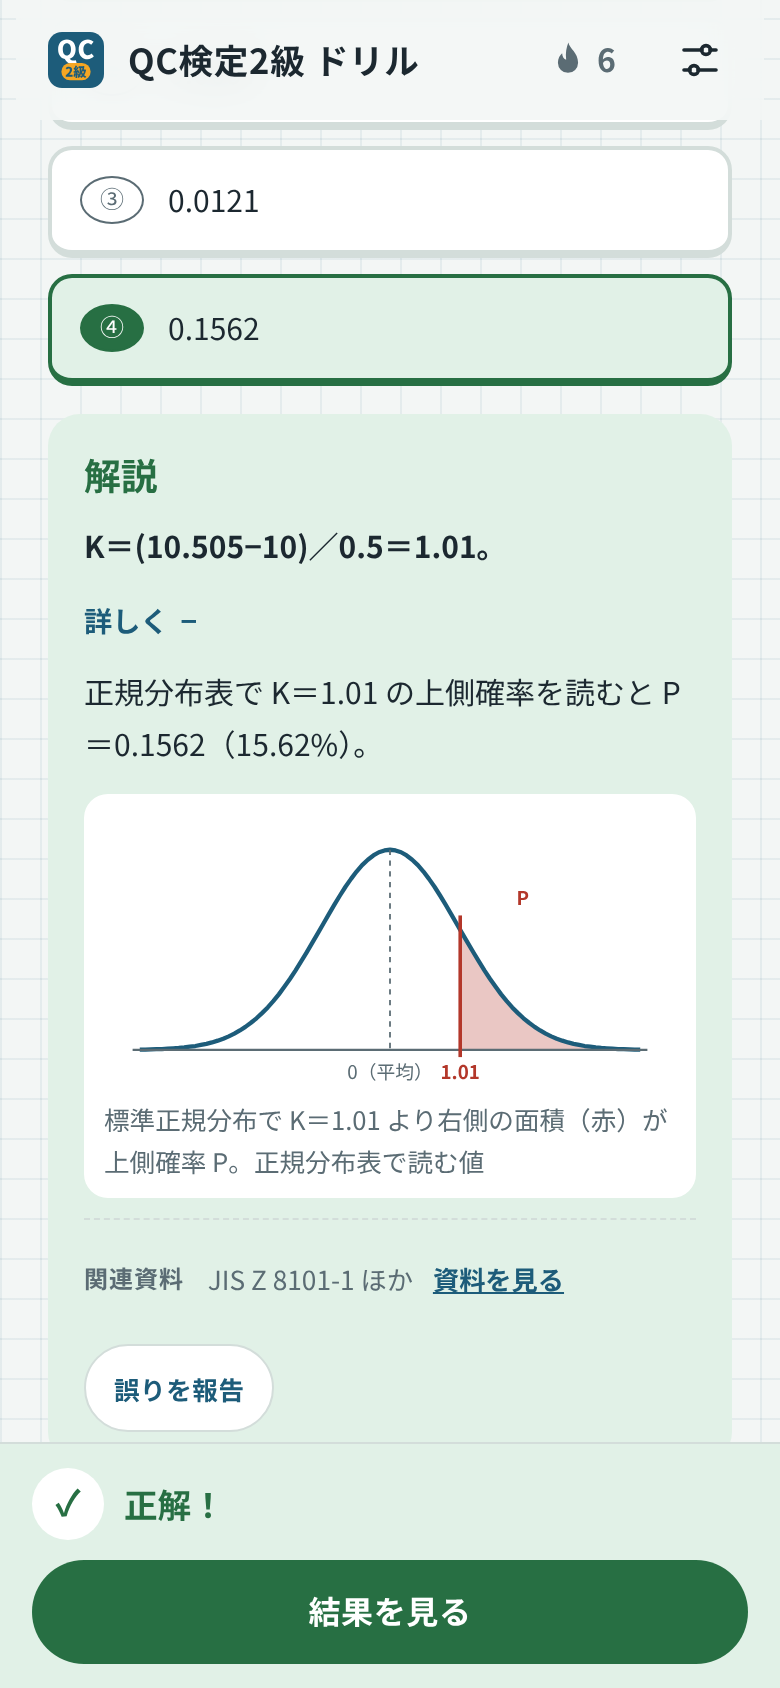
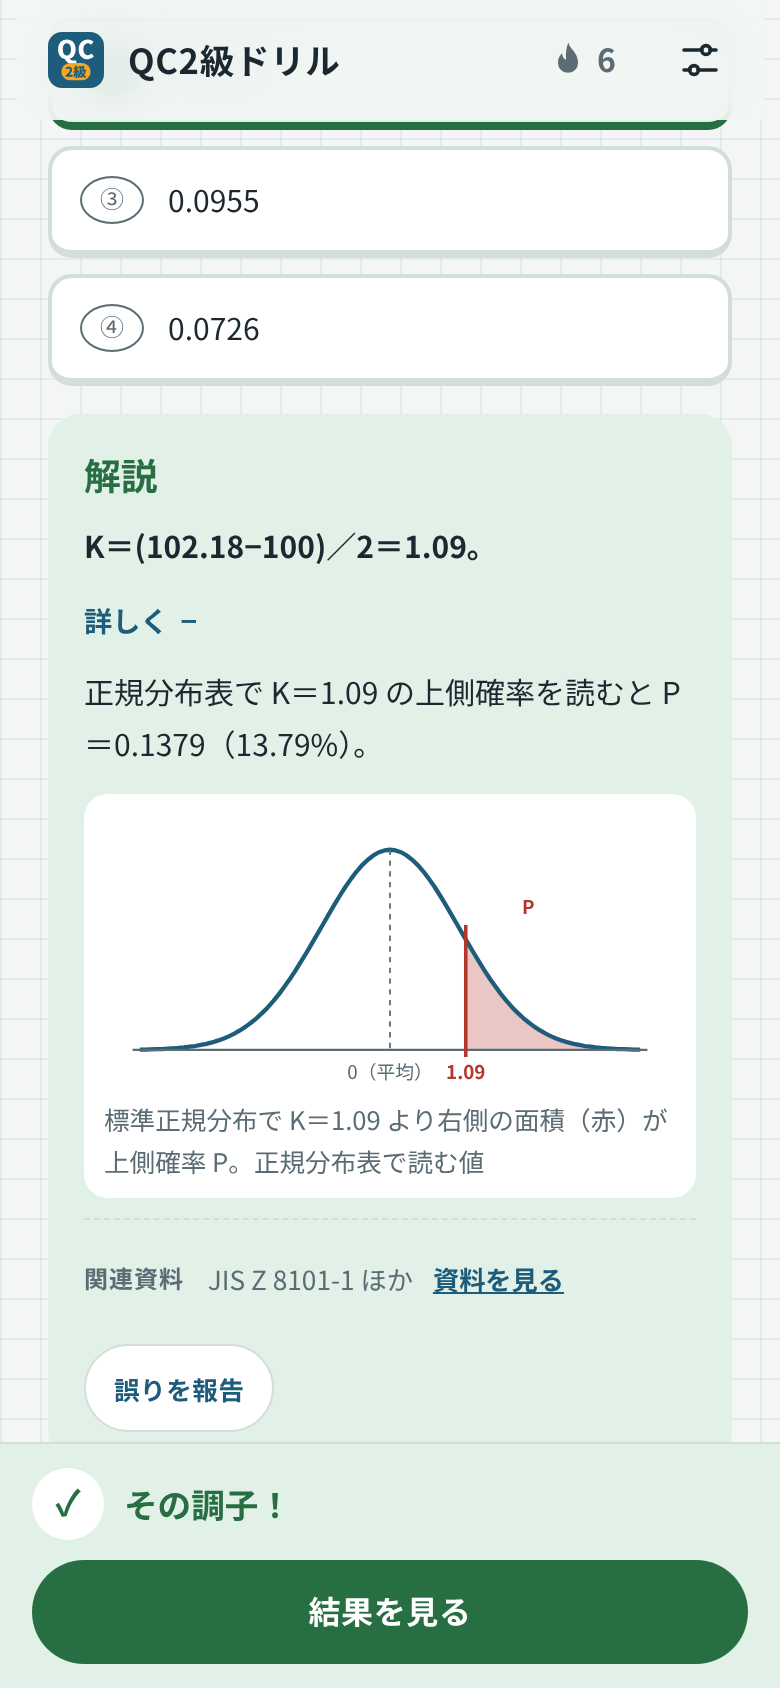
v2.0.2 アプリ名をQC2級ドリルに変更、検索・共有用の情報を追加

diff --git a/docs/index.html b/docs/index.html
@@ -1,4 +1,4 @@
-<!doctype html><html lang="ja"><head><meta charset="utf-8"><meta name="viewport" content="width=device-width,initial-scale=1,viewport-fit=cover"><style>:root{color-scheme:light;padding-top:env(safe-area-inset-top,0px);padding-bottom:env(safe-area-inset-bottom,0px)}body{margin:0}img{max-width:100%}[hidden]{display:none!important}</style></head><body><title>QC検定2級 ドリル</title>
+<!doctype html><html lang="ja"><head><meta charset="utf-8"><meta name="viewport" content="width=device-width,initial-scale=1,viewport-fit=cover"><style>:root{color-scheme:light;padding-top:env(safe-area-inset-top,0px);padding-bottom:env(safe-area-inset-bottom,0px)}body{margin:0}img{max-width:100%}[hidden]{display:none!important}</style><title>QC2級ドリル｜QC検定®2級の無料問題集・模擬試験（非公式）</title><meta name="description" content="QC検定®2級の出題範囲（レベル表164項目）を網羅した無料・広告なしの問題集。計算問題は毎回数値が変わり、本試験形式の大問、模擬試験、間隔反復の復習つき。Web版とAndroid版（非公式）。"><link rel="canonical" href="https://kotaooka.github.io/qc2-drill/"><meta name="theme-color" content="#1D5C7A"><meta property="og:type" content="website"><meta property="og:site_name" content="QC2級ドリル"><meta property="og:title" content="QC2級ドリル｜QC検定®2級の無料問題集・模擬試験"><meta property="og:description" content="QC検定®2級の出題範囲（レベル表164項目）を網羅した無料・広告なしの問題集。計算問題は毎回数値が変わり、本試験形式の大問、模擬試験、間隔反復の復習つき。Web版とAndroid版（非公式）。"><meta property="og:url" content="https://kotaooka.github.io/qc2-drill/"><meta property="og:image" content="https://raw.githubusercontent.com/kotaooka/qc2-drill/main/screenshots/og.png"><meta name="twitter:card" content="summary_large_image"></head><body><noscript><h1>QC2級ドリル</h1><p>QC検定®2級の出題範囲（レベル表164項目）を網羅した無料・広告なしの問題集。計算問題は毎回数値が変わり、本試験形式の大問、模擬試験、間隔反復の復習つき。Web版とAndroid版（非公式）。</p><p>このアプリを使うには JavaScript を有効にしてください。</p></noscript>
 <style>
 /* レイアウト：方眼紙の地にマークシート型の解答欄。上部タブで5画面を切替える1カラムアプリ */
 :root{
@@ -506,7 +506,7 @@ body.onbopen{overflow:hidden}
 <header class="appbar">
   <div class="bar">
     <svg class="brandmark" viewBox="18 18 72 72" aria-hidden="true"><rect x="18" y="18" width="72" height="72" rx="18" fill="#1D5C7A"/><path fill="#FFFFFF" d="M42.266000000000005 48.144C39.032000000000004 48.144 37.052 45.207 37.052 40.092C37.052 35.34 39.032000000000004 32.535 42.266000000000005 32.535C45.5 32.535 47.513000000000005 35.34 47.513000000000005 40.092C47.513000000000005 45.207 45.5 48.144 42.266000000000005 48.144ZM50.45 59.43C52.397000000000006 59.43 53.981 59.1 54.938 58.605000000000004L53.882000000000005 54.315C53.123000000000005 54.579 52.166 54.777 51.11 54.777C49.13 54.777 46.919 54.15 45.797 52.467C50.516000000000005 51.015 53.519000000000005 46.626 53.519000000000005 40.092C53.519000000000005 32.073 48.965 27.485999999999997 42.266000000000005 27.485999999999997C35.567 27.485999999999997 31.013 32.04 31.013 40.092C31.013 47.022 34.379 51.543 39.593 52.698C41.375 56.625 45.104 59.43 50.45 59.43Z M68.968 52.962C72.169 52.962 74.908 51.741 76.987 49.332L73.885 45.635999999999996C72.73 46.89 71.179 47.88 69.199 47.88C65.734 47.88 63.49 45.042 63.49 40.158C63.49 35.373 66.097 32.535 69.265 32.535C71.014 32.535 72.301 33.327 73.555 34.449L76.624 30.686999999999998C74.941 28.971 72.367 27.485999999999997 69.166 27.485999999999997C62.929 27.485999999999997 57.451 32.172 57.451 40.356C57.451 48.672 62.731 52.962 68.968 52.962Z"/><path fill="#F5A623" d="M46.2895,57.982 H61.710499999999996 A11.0835,11.0835 0 0 1 72.794,69.0655 V69.0655 A11.0835,11.0835 0 0 1 61.710499999999996,80.149 H46.2895 A11.0835,11.0835 0 0 1 35.205999999999996,69.0655 V69.0655 A11.0835,11.0835 0 0 1 46.2895,57.982 Z"/><path fill="#1D5C7A" d="M40.858999999999995 75.5H49.631V72.95H47.318999999999996C46.741 72.95 45.873999999999995 73.035 45.245 73.12C47.18299999999999 71.165 49.053 68.768 49.053 66.592C49.053 64.178 47.352999999999994 62.614 44.904999999999994 62.614C43.102999999999994 62.614 41.946999999999996 63.242999999999995 40.705999999999996 64.569L42.355 66.201C42.967 65.555 43.629999999999995 64.977 44.497 64.977C45.516999999999996 64.977 46.145999999999994 65.606 46.145999999999994 66.762C46.145999999999994 68.598 44.020999999999994 70.893 40.858999999999995 73.766Z M61.463 68.224C61.174 67.187 60.97 66.048 60.783 64.858V64.161H62.211C62.007 65.436 61.735 66.932 61.463 68.224ZM51.449999999999996 71.114C51.348 72.525 51.11 74.055 50.668 75.041C51.178 75.228 52.096 75.653 52.521 75.925C52.912 74.99 53.235 73.562 53.405 72.151V77.115H55.547V72.032C55.818999999999996 72.848 56.108 73.766 56.227 74.395L57.144999999999996 74.072C56.805 74.667 56.397 75.228 55.887 75.721C56.431 75.993 57.281 76.656 57.672 77.047C59.236 75.449 60.018 73.324 60.409 71.233C60.732 72.066 61.089 72.814 61.531 73.511C60.817 74.225 60.018 74.82 59.117 75.262C59.626999999999995 75.619 60.443 76.537 60.783 77.064C61.582 76.622 62.346999999999994 76.044 63.027 75.347C63.792 76.078 64.71 76.673 65.798 77.149C66.121 76.52 66.801 75.585 67.294 75.143C66.189 74.752 65.271 74.208 64.489 73.528C65.679 71.709 66.54599999999999 69.397 67.02199999999999 66.592L65.543 66.065L65.152 66.133H64.115C64.37 64.722 64.608 63.294 64.77799999999999 62.019L63.129 61.815L62.772 61.9H57.4V64.161H58.658V66.745C58.658 68.394 58.539 70.689 57.757 72.763C57.553 72.151 57.315 71.488 57.077 70.92699999999999L55.547 71.42V70.213L56.346 70.162C56.414 70.434 56.482 70.706 56.516 70.944L58.233 70.179C58.062999999999995 69.176 57.434 67.663 56.788 66.49L55.19 67.15299999999999C55.36 67.493 55.53 67.85 55.683 68.224L54.289 68.275C55.342999999999996 66.949 56.464999999999996 65.351 57.382999999999996 63.94L55.394 63.039C55.019999999999996 63.838 54.527 64.739 53.983 65.64L53.643 65.215C54.238 64.263 54.918 62.954 55.547 61.763999999999996L53.422 60.982C53.166999999999994 61.849 52.742 62.92 52.3 63.838L51.994 63.566L50.838 65.266C51.501 65.912 52.266 66.779 52.742 67.527L52.129999999999995 68.343L50.838 68.394L51.041999999999994 70.519L53.405 70.366V71.454ZM63.69 68.326H64.353C64.013 69.601 63.537 70.723 62.942 71.692C62.381 70.80799999999999 61.939 69.805 61.599 68.68299999999999L63.571 68.904Z"/></svg>
-    <h1 class="brand">QC検定2級 ドリル</h1>
+    <h1 class="brand">QC2級ドリル</h1>
     <button class="streakbtn" id="streakChip" aria-label="連続記録"></button>
     <button class="iconbtn" id="setBtn" aria-haspopup="dialog" aria-label="設定"></button>
   </div>
@@ -1377,9 +1377,10 @@ const EXAMS = [
   {id:'43', label:'第43回', date:'2027-03-21', apply:['2026-12-11','2027-01-21']},
 ];
 const APP = {
-  version: '2.0.1',
+  version: '2.0.2',
   date: '2026-10-05',
   history: [
+    ['2.0.2', '2026-10-05', 'アプリ名を「QC2級ドリル」に変更'],
     ['2.0.1', '2026-10-05', '続きから再開できるのは模擬試験だけに。演習を途中でやめるときは、進み具合がリセットされることを確認してからやめるように'],
     ['2.0.0', '2026-10-05', '途中保存と再開、電卓、問題に合わせた数値表、ホームの整理、解説の要点と詳しく、問題の切り替えの動き、終了画面の刷新、見やすさの改善（色・押しやすさ・読み上げ）'],
     ['1.9.0', '2026-10-05', '間隔反復の復習（今日の復習）、初回起動の案内、解説の図（正規分布・管理図・OC曲線など9種）、文字サイズの設定を追加'],
@@ -2579,7 +2580,7 @@ function render(){
   const key=view==='drill'&&quiz?'q'+quiz.i+'/'+quiz.list.length:view==='mock'&&mock&&!mock.done?'m'+mock.i:'';
   if(key&&key!==lastCardKey){const c=m.querySelector('.qcard');if(c&&lastCardKey)c.classList.add('enter');}
   lastCardKey=key;
-  if(!focus)m.insertAdjacentHTML('beforeend',`<footer class="appfoot">QC検定2級 ドリル <span class="ver">v${APP.version}</span>（${APP.date} 更新）・非公式の学習教材です</footer>`);
+  if(!focus)m.insertAdjacentHTML('beforeend',`<footer class="appfoot">QC2級ドリル <span class="ver">v${APP.version}</span>（${APP.date} 更新）・非公式の学習教材です</footer>`);
 }
 
 function subtabs(g){
@@ -3214,7 +3215,7 @@ function onbHTML(){
   const st=onbSteps(),k=st[onb.step],ex=examSel(),today=dayKey(new Date()),rc=remindCfg(),pad=n=>String(n).padStart(2,'0');
   const card=(attr,on,title,sub)=>`<button class="ocard" ${attr} aria-pressed="${on}"><b>${title}</b>${sub?`<span>${sub}</span>`:''}</button>`;
   let body='';
-  if(k==='hello')body=`<div class="ohero">${$('.brandmark').outerHTML}</div><h2 class="otitle">QC検定2級 ドリルへようこそ</h2>
+  if(k==='hello')body=`<div class="ohero">${$('.brandmark').outerHTML}</div><h2 class="otitle">QC2級ドリルへようこそ</h2>
     <ul class="olist"><li><b>学習ロード</b><span>4級の基本から2級の総仕上げまで、8つの章を順に進めます</span></li>
     <li><b>毎日の目標と連続記録</b><span>決めた問題数を解いた日が、連続記録の1日になります</span></li>
     <li><b>間隔をあけた復習</b><span>間違えた問題や忘れかけた問題を、ちょうどよい間隔で出し直します</span></li></ul>

diff --git a/src/template.html b/src/template.html
@@ -1,4 +1,4 @@
-<title>QC検定2級 ドリル</title>
+<title>QC2級ドリル｜QC検定®2級の無料問題集・模擬試験（非公式）</title>
 <style>
 /* レイアウト：方眼紙の地にマークシート型の解答欄。上部タブで5画面を切替える1カラムアプリ */
 :root{
@@ -506,7 +506,7 @@ body.onbopen{overflow:hidden}
 <header class="appbar">
   <div class="bar">
     <svg class="brandmark" viewBox="18 18 72 72" aria-hidden="true"><rect x="18" y="18" width="72" height="72" rx="18" fill="#1D5C7A"/><path fill="#FFFFFF" d="M42.266000000000005 48.144C39.032000000000004 48.144 37.052 45.207 37.052 40.092C37.052 35.34 39.032000000000004 32.535 42.266000000000005 32.535C45.5 32.535 47.513000000000005 35.34 47.513000000000005 40.092C47.513000000000005 45.207 45.5 48.144 42.266000000000005 48.144ZM50.45 59.43C52.397000000000006 59.43 53.981 59.1 54.938 58.605000000000004L53.882000000000005 54.315C53.123000000000005 54.579 52.166 54.777 51.11 54.777C49.13 54.777 46.919 54.15 45.797 52.467C50.516000000000005 51.015 53.519000000000005 46.626 53.519000000000005 40.092C53.519000000000005 32.073 48.965 27.485999999999997 42.266000000000005 27.485999999999997C35.567 27.485999999999997 31.013 32.04 31.013 40.092C31.013 47.022 34.379 51.543 39.593 52.698C41.375 56.625 45.104 59.43 50.45 59.43Z M68.968 52.962C72.169 52.962 74.908 51.741 76.987 49.332L73.885 45.635999999999996C72.73 46.89 71.179 47.88 69.199 47.88C65.734 47.88 63.49 45.042 63.49 40.158C63.49 35.373 66.097 32.535 69.265 32.535C71.014 32.535 72.301 33.327 73.555 34.449L76.624 30.686999999999998C74.941 28.971 72.367 27.485999999999997 69.166 27.485999999999997C62.929 27.485999999999997 57.451 32.172 57.451 40.356C57.451 48.672 62.731 52.962 68.968 52.962Z"/><path fill="#F5A623" d="M46.2895,57.982 H61.710499999999996 A11.0835,11.0835 0 0 1 72.794,69.0655 V69.0655 A11.0835,11.0835 0 0 1 61.710499999999996,80.149 H46.2895 A11.0835,11.0835 0 0 1 35.205999999999996,69.0655 V69.0655 A11.0835,11.0835 0 0 1 46.2895,57.982 Z"/><path fill="#1D5C7A" d="M40.858999999999995 75.5H49.631V72.95H47.318999999999996C46.741 72.95 45.873999999999995 73.035 45.245 73.12C47.18299999999999 71.165 49.053 68.768 49.053 66.592C49.053 64.178 47.352999999999994 62.614 44.904999999999994 62.614C43.102999999999994 62.614 41.946999999999996 63.242999999999995 40.705999999999996 64.569L42.355 66.201C42.967 65.555 43.629999999999995 64.977 44.497 64.977C45.516999999999996 64.977 46.145999999999994 65.606 46.145999999999994 66.762C46.145999999999994 68.598 44.020999999999994 70.893 40.858999999999995 73.766Z M61.463 68.224C61.174 67.187 60.97 66.048 60.783 64.858V64.161H62.211C62.007 65.436 61.735 66.932 61.463 68.224ZM51.449999999999996 71.114C51.348 72.525 51.11 74.055 50.668 75.041C51.178 75.228 52.096 75.653 52.521 75.925C52.912 74.99 53.235 73.562 53.405 72.151V77.115H55.547V72.032C55.818999999999996 72.848 56.108 73.766 56.227 74.395L57.144999999999996 74.072C56.805 74.667 56.397 75.228 55.887 75.721C56.431 75.993 57.281 76.656 57.672 77.047C59.236 75.449 60.018 73.324 60.409 71.233C60.732 72.066 61.089 72.814 61.531 73.511C60.817 74.225 60.018 74.82 59.117 75.262C59.626999999999995 75.619 60.443 76.537 60.783 77.064C61.582 76.622 62.346999999999994 76.044 63.027 75.347C63.792 76.078 64.71 76.673 65.798 77.149C66.121 76.52 66.801 75.585 67.294 75.143C66.189 74.752 65.271 74.208 64.489 73.528C65.679 71.709 66.54599999999999 69.397 67.02199999999999 66.592L65.543 66.065L65.152 66.133H64.115C64.37 64.722 64.608 63.294 64.77799999999999 62.019L63.129 61.815L62.772 61.9H57.4V64.161H58.658V66.745C58.658 68.394 58.539 70.689 57.757 72.763C57.553 72.151 57.315 71.488 57.077 70.92699999999999L55.547 71.42V70.213L56.346 70.162C56.414 70.434 56.482 70.706 56.516 70.944L58.233 70.179C58.062999999999995 69.176 57.434 67.663 56.788 66.49L55.19 67.15299999999999C55.36 67.493 55.53 67.85 55.683 68.224L54.289 68.275C55.342999999999996 66.949 56.464999999999996 65.351 57.382999999999996 63.94L55.394 63.039C55.019999999999996 63.838 54.527 64.739 53.983 65.64L53.643 65.215C54.238 64.263 54.918 62.954 55.547 61.763999999999996L53.422 60.982C53.166999999999994 61.849 52.742 62.92 52.3 63.838L51.994 63.566L50.838 65.266C51.501 65.912 52.266 66.779 52.742 67.527L52.129999999999995 68.343L50.838 68.394L51.041999999999994 70.519L53.405 70.366V71.454ZM63.69 68.326H64.353C64.013 69.601 63.537 70.723 62.942 71.692C62.381 70.80799999999999 61.939 69.805 61.599 68.68299999999999L63.571 68.904Z"/></svg>
-    <h1 class="brand">QC検定2級 ドリル</h1>
+    <h1 class="brand">QC2級ドリル</h1>
     <button class="streakbtn" id="streakChip" aria-label="連続記録"></button>
     <button class="iconbtn" id="setBtn" aria-haspopup="dialog" aria-label="設定"></button>
   </div>
@@ -872,7 +872,7 @@ function render(){
   const key=view==='drill'&&quiz?'q'+quiz.i+'/'+quiz.list.length:view==='mock'&&mock&&!mock.done?'m'+mock.i:'';
   if(key&&key!==lastCardKey){const c=m.querySelector('.qcard');if(c&&lastCardKey)c.classList.add('enter');}
   lastCardKey=key;
-  if(!focus)m.insertAdjacentHTML('beforeend',`<footer class="appfoot">QC検定2級 ドリル <span class="ver">v${APP.version}</span>（${APP.date} 更新）・非公式の学習教材です</footer>`);
+  if(!focus)m.insertAdjacentHTML('beforeend',`<footer class="appfoot">QC2級ドリル <span class="ver">v${APP.version}</span>（${APP.date} 更新）・非公式の学習教材です</footer>`);
 }
 
 function subtabs(g){
@@ -1507,7 +1507,7 @@ function onbHTML(){
   const st=onbSteps(),k=st[onb.step],ex=examSel(),today=dayKey(new Date()),rc=remindCfg(),pad=n=>String(n).padStart(2,'0');
   const card=(attr,on,title,sub)=>`<button class="ocard" ${attr} aria-pressed="${on}"><b>${title}</b>${sub?`<span>${sub}</span>`:''}</button>`;
   let body='';
-  if(k==='hello')body=`<div class="ohero">${$('.brandmark').outerHTML}</div><h2 class="otitle">QC検定2級 ドリルへようこそ</h2>
+  if(k==='hello')body=`<div class="ohero">${$('.brandmark').outerHTML}</div><h2 class="otitle">QC2級ドリルへようこそ</h2>
     <ul class="olist"><li><b>学習ロード</b><span>4級の基本から2級の総仕上げまで、8つの章を順に進めます</span></li>
     <li><b>毎日の目標と連続記録</b><span>決めた問題数を解いた日が、連続記録の1日になります</span></li>
     <li><b>間隔をあけた復習</b><span>間違えた問題や忘れかけた問題を、ちょうどよい間隔で出し直します</span></li></ul>

diff --git a/src/res.js b/src/res.js
@@ -6,9 +6,10 @@ const EXAMS = [
   {id:'43', label:'第43回', date:'2027-03-21', apply:['2026-12-11','2027-01-21']},
 ];
 const APP = {
-  version: '2.0.1',
+  version: '2.0.2',
   date: '2026-10-05',
   history: [
+    ['2.0.2', '2026-10-05', 'アプリ名を「QC2級ドリル」に変更'],
     ['2.0.1', '2026-10-05', '続きから再開できるのは模擬試験だけに。演習を途中でやめるときは、進み具合がリセットされることを確認してからやめるように'],
     ['2.0.0', '2026-10-05', '途中保存と再開、電卓、問題に合わせた数値表、ホームの整理、解説の要点と詳しく、問題の切り替えの動き、終了画面の刷新、見やすさの改善（色・押しやすさ・読み上げ）'],
     ['1.9.0', '2026-10-05', '間隔反復の復習（今日の復習）、初回起動の案内、解説の図（正規分布・管理図・OC曲線など9種）、文字サイズの設定を追加'],

diff --git a/tools/build.py b/tools/build.py
@@ -6,9 +6,36 @@ SRC = ROOT / "src"
 r = lambda name: (SRC / name).read_text(encoding="utf-8")
 
 body = r("template.html")
+# <title> は head に移す（検索エンジンが確実に読めるように）
+import re
+m = re.search(r"<title>.*?</title>", body)
+TITLE = m.group(0) if m else ""
+body = body.replace(TITLE, "", 1)
 body = body.replace("/*TABLES*/", r("tables.json"))
 body = body.replace("/*BANK*/", "".join(r(f) for f in ["bank.js","bank2.js","bank3.js","bank4.js","bank5.js","bank6.js","bank7.js","dai.js","dai2.js","dai3.js","res.js","syllabus.js","path.js","figs.js"]))
 body = body.replace("/*GEN*/", "".join(r(f) for f in ["gen.js","gen2.js","gen3.js"]))
+
+# 検索結果・SNS 共有で表示される説明（GitHub Pages 用）
+URL = "https://kotaooka.github.io/qc2-drill/"
+DESC = ("QC検定®2級の出題範囲（レベル表164項目）を網羅した無料・広告なしの問題集。"
+        "計算問題は毎回数値が変わり、本試験形式の大問、模擬試験、間隔反復の復習つき。Web版とAndroid版（非公式）。")
+OGIMG = "https://raw.githubusercontent.com/kotaooka/qc2-drill/main/screenshots/og.png"
+META = (
+    f'<meta name="description" content="{DESC}">'
+    f'<link rel="canonical" href="{URL}">'
+    '<meta name="theme-color" content="#1D5C7A">'
+    '<meta property="og:type" content="website">'
+    '<meta property="og:site_name" content="QC2級ドリル">'
+    '<meta property="og:title" content="QC2級ドリル｜QC検定®2級の無料問題集・模擬試験">'
+    f'<meta property="og:description" content="{DESC}">'
+    f'<meta property="og:url" content="{URL}">'
+    f'<meta property="og:image" content="{OGIMG}">'
+    '<meta name="twitter:card" content="summary_large_image">'
+)
+NOSCRIPT = (
+    "<noscript><h1>QC2級ドリル</h1><p>" + DESC + "</p>"
+    "<p>このアプリを使うには JavaScript を有効にしてください。</p></noscript>"
+)
 
 # GitHub Pages などで単体表示するための最小限の骨格
 head = (
@@ -16,7 +43,8 @@ head = (
     '<meta name="viewport" content="width=device-width,initial-scale=1,viewport-fit=cover">'
     "<style>:root{color-scheme:light;padding-top:env(safe-area-inset-top,0px);"
     "padding-bottom:env(safe-area-inset-bottom,0px)}body{margin:0}img{max-width:100%}"
-    "[hidden]{display:none!important}</style></head><body>"
+    "[hidden]{display:none!important}</style>"
+    + TITLE + META + "</head><body>" + NOSCRIPT
 )
 out = ROOT / "docs" / "index.html"
 out.parent.mkdir(exist_ok=True)

diff --git a/android/app/src/main/java/app/qc2drill/Reminder.java b/android/app/src/main/java/app/qc2drill/Reminder.java
@@ -57,7 +57,7 @@ public class Reminder extends BroadcastReceiver {
         int icon = ctx.getResources().getIdentifier("ic_notify", "drawable", ctx.getPackageName());
         Notification n = new Notification.Builder(ctx, CHANNEL)
                 .setSmallIcon(icon)
-                .setContentTitle("QC検定2級 ドリル")
+                .setContentTitle("QC2級ドリル")
                 .setContentText(text)
                 .setAutoCancel(true)
                 .setContentIntent(pi)
